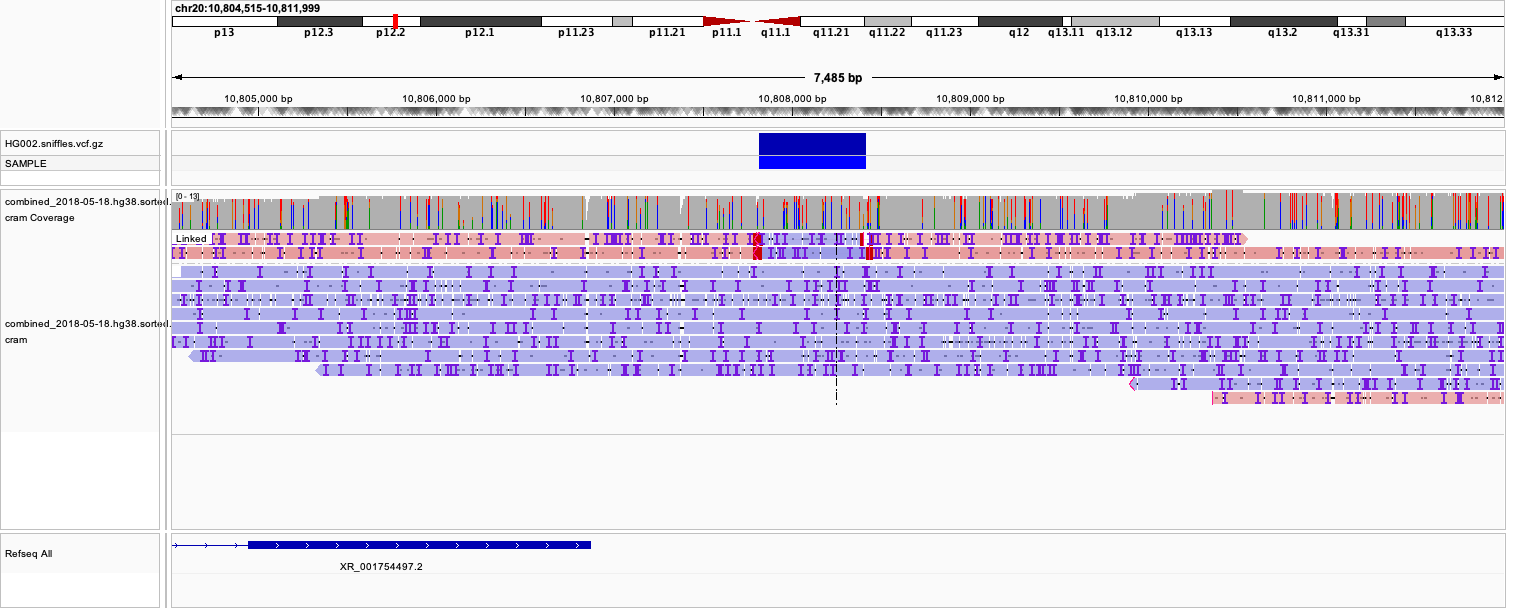
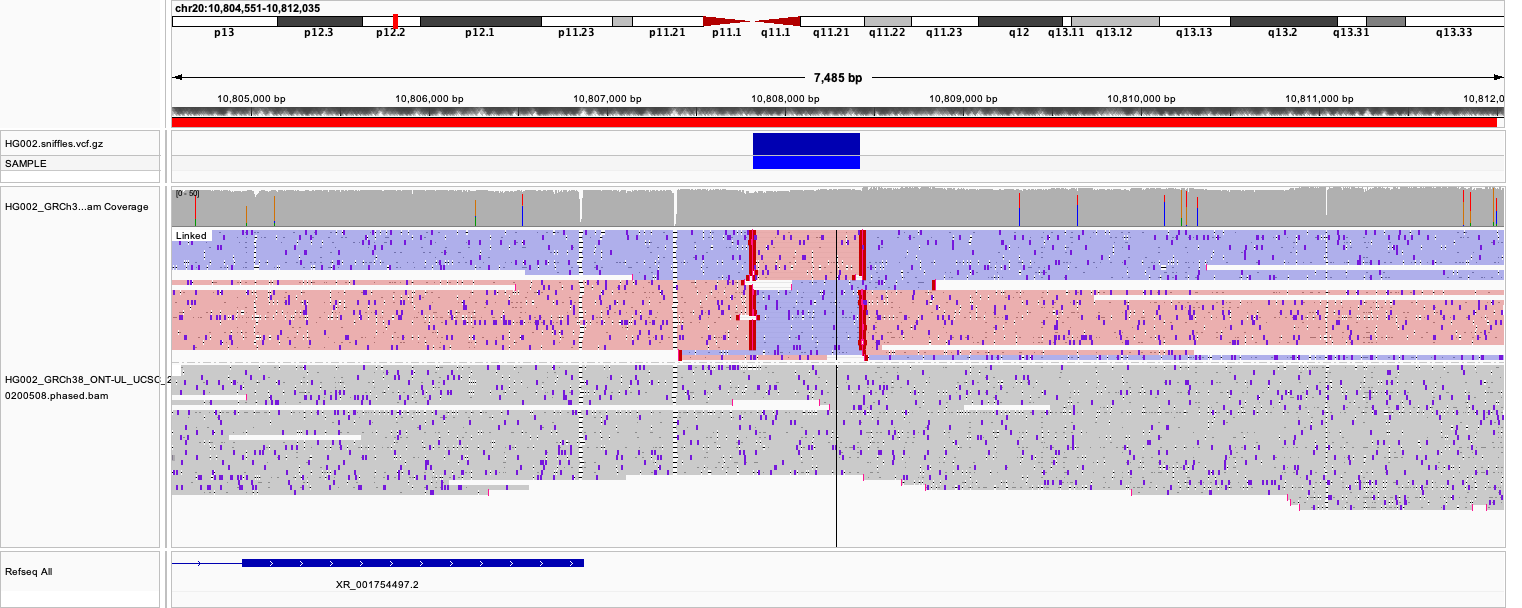
Extend hands-on section with real haplotype phasing step
Loads a second real dataset alongside the existing inversion-finding
CRAM: HG002_GRCh38_ONT-UL_UCSC_20200508.phased.bam (UCSC ultra-long
ONT PromethION, GIAB), whose reads already carry an HP haplotype tag.

After finding the inversion breakpoints on the first track, learners
now color/group the phased track by the HP tag on the same locus and
reason about whether the inversion is heterozygous (one haplotype)
or homozygous (both) -- turning the standalone "Haplotype phasing"
background subsection into a hands-on follow-up on the same real
data, rather than a disconnected second example.

Also swaps in an updated, clearer version of the inversion screenshot
and notes the second file's much larger index (52 MB) in
instructor-notes.md as a load-time consideration.

Claude-Session: https://claude.ai/code/session_0122rCMcYUZRCa9nfNE1aPu1

diff --git a/episodes/09-viewing-long-read-sequencing.md b/episodes/09-viewing-long-read-sequencing.md
@@ -13,9 +13,10 @@ exercises: 15
 - Interpret mapping quality (MAPQ) when assessing a long-read alignment.
 - Recognize split reads as evidence for structural variants in long-read
   data.
-- Load a remote CRAM file directly from a public archive and use linked
+- Load remote BAM/CRAM files directly from a public archive and use linked
   supplementary alignments and strand coloring to confirm an inversion.
-- Use haplotype-tag coloring to visualize phased variants.
+- Use haplotype-tag coloring to visualize phased variants, including
+  assessing whether a structural variant is heterozygous or homozygous.
 
 ::::::::::::::::::::::::::::::::::::::::::::::::::
 
@@ -175,21 +176,37 @@ NCBI.
   but IGV only ever requests the small portion of it covering the region
   you are viewing.)
 
-3. Type `chr20:10,804,515-10,811,999` into the search box and click **Go**.
+3. Repeat **File > Load from URL…** for a second, independently-phased
+  ultra-long nanopore dataset for the same sample, which you will use later
+  in this section:
+
+  ```output
+  https://ftp-trace.ncbi.nlm.nih.gov/giab/ftp/data/AshkenazimTrio/HG002_NA24385_son/UCSC_Ultralong_OxfordNanopore_Promethion/HG002_GRCh38_ONT-UL_UCSC_20200508.phased.bam
+  ```
+
+  This file is much larger (its index alone is 52 MB), so this load step may
+  take a little longer — but as before, IGV still only streams the region
+  you actually view.
+
+4. Type `chr20:10,804,515-10,811,999` into the search box and click **Go**.
 
 At this zoom level you will see the same dense, indel-heavy raw signal
 described earlier in this episode — feel free to apply quick consensus mode
-here too. To reveal the structural signal underneath it:
+here too. For now, focus only on the `combined_2018-05-18` track (leave the
+second, `...phased.bam` track alone; you will come back to it). To reveal
+the structural signal underneath the noise:
 
-4. Right-click the alignments and select **Link supplementary alignments**.
-  Long reads spanning a structural variant breakpoint are often aligned as
-  a primary alignment plus one or more separate *supplementary* alignments;
-  this option draws all the pieces of one read on a single row, connected
-  by a thin line — the direct long-read equivalent of the paired-end
-  linking you used with **View as pairs** in the previous episode.
-5. Right-click again and select **Color alignments by > Read strand**.
+5. Right-click the `combined_2018-05-18` alignments and select **Link
+  supplementary alignments**. Long reads spanning a structural variant
+  breakpoint are often aligned as a primary alignment plus one or more
+  separate *supplementary* alignments; this option draws all the pieces of
+  one read on a single row, connected by a thin line — the direct long-read
+  equivalent of the paired-end linking you used with **View as pairs** in
+  the previous episode.
+6. Right-click the same track again and select **Color alignments by >
+  Read strand**.
 
-![Ultra-long nanopore reads at chr20:10,804,515-10,811,999 (HG002), linked and colored by read strand: a block of reads switches from pink (forward) to purple (reverse) and back, right where the linked lines connect split read segments.](fig/longread-09-hg002-inversion-hands-on.png){alt='IGV view of HG002 ultra-long nanopore reads at a chr20 locus, linked supplementary alignments and colored by read strand, showing a block of reverse-strand-colored reads flanked by forward-strand reads'}
+![Ultra-long nanopore reads at chr20:10,804,515-10,811,999 (HG002): the top track (`combined_2018-05-18`), linked and colored by read strand, shows a block of reads switching from pink (forward) to purple (reverse) and back. The second track below it (the phased BAM) is still in its default, unstyled appearance at this point — you will style it in the next step.](fig/longread-09-hg002-inversion-hands-on.png){alt='IGV view of HG002 ultra-long nanopore reads at a chr20 locus: the top track linked and colored by read strand showing a block of reverse-strand reads flanked by forward-strand reads, and a second, unstyled grey track below it'}
 
 Most reads across this region are colored pink (forward strand). A block of
 reads in the middle of the view, however, switches to purple (reverse
@@ -222,13 +239,53 @@ colored by strand.
 
 ::::::::::::::::::::::::::::::::::::::::::::::::::
 
-### Haplotype phasing
+### Is the inversion on one haplotype, or both?
 
-Long reads are also long enough to span multiple nearby variants on the
-*same* physical DNA molecule, which lets phasing tools (such as WhatsHap or
-LongPhase) tag each read with which parental haplotype it belongs to (the
-`HP` BAM tag). Coloring and sorting reads by `HP` groups them into their two
-haplotypes, making it easy to compare alleles side by side. In this example
+Now turn to the second track you loaded,
+`HG002_GRCh38_ONT-UL_UCSC_20200508.phased.bam`. As the name suggests, its
+reads have already been assigned to a haplotype by a phasing tool, tagged
+with the `HP` BAM attribute — exactly the kind of tag described next.
+
+7. Right-click that track and select **Color alignments by > Tag**, then
+  enter `HP` as the tag name. Optionally also **Group alignments by > Tag**
+  with the same tag, to separate the two haplotypes into clearly divided
+  blocks rather than an interleaved mix of colors.
+
+:::::::::::::::::::::::::::::::::::::::  challenge
+
+## Heterozygous or homozygous?
+
+Compare the two haplotype groups at the same breakpoints you identified
+above. Are reads showing evidence of the inversion confined to one
+haplotype, or do both haplotypes show it? What would each answer imply
+biologically?
+
+:::::::::::::::  solution
+
+## Solution
+
+If the discordant, split/strand-switching read pattern only appears in one
+haplotype group while the other haplotype's reads look normal all the way
+through, that is evidence the inversion is **heterozygous** — present on
+only one of the two parental chromosomes. If both haplotype groups show the
+same discordant pattern, that would instead suggest a **homozygous**
+inversion, present on both chromosomes. This is exactly the kind of
+question phasing lets you answer that an unphased view cannot: an unphased
+track only tells you *that* some reads are discordant at this locus, not
+*which chromosome copy* they came from.
+
+:::::::::::::::::::::::::
+
+::::::::::::::::::::::::::::::::::::::::::::::::::
+
+### Haplotype phasing, more generally
+
+The `HP` tag you just used works because long reads are long enough to span
+multiple nearby variants on the *same* physical DNA molecule, which lets
+phasing tools (such as WhatsHap or LongPhase) tag each read with which
+parental haplotype it belongs to. Coloring and sorting reads by `HP` groups
+them into their two haplotypes, making it easy to compare alleles side by
+side — useful well beyond structural variant zygosity. In this example
 — a short tandem repeat expansion in the *FMR1* gene — one haplotype carries
 a much larger insertion than the other; grey reads could not be confidently
 assigned to either haplotype:
@@ -282,6 +339,8 @@ like Fragile X syndrome (associated with *FMR1* repeat expansions).
 - A single long read can directly reveal a structural variant by splitting
   across its breakpoint, without needing paired-end evidence.
 - Coloring and grouping reads by haplotype (`HP`) tag separates two alleles
-  for direct comparison, useful for phased variants and repeat expansions.
+  for direct comparison, useful for phased variants and repeat expansions —
+  and for telling a heterozygous structural variant (one haplotype) apart
+  from a homozygous one (both haplotypes).
 
 ::::::::::::::::::::::::::::::::::::::::::::::::::

diff --git a/instructors/instructor-notes.md b/instructors/instructor-notes.md
@@ -14,10 +14,12 @@ Episodes 1–2 need an internet connection (they load example data from the
 IGV server). Episodes 3–5, 7, and 8 use only local files. Episode 6 needs an
 internet connection again for the hosted RNA-seq tutorial data. Episode 9 is
 mostly discussion/demonstration based, walking through published
-screenshots, but its hands-on section streams a public CRAM file from NCBI
-over the internet — check this works from the workshop network in advance,
-since some institutional networks block or throttle large range requests to
-external FTP/HTTPS servers.
+screenshots, but its hands-on section streams two public files from NCBI
+over the internet (a ~13 GB CRAM and a ~175 GB BAM, the latter with a
+52 MB index) — check this works from the workshop network in advance, since
+some institutional networks block or throttle large range requests to
+external FTP/HTTPS servers, and the larger index in particular may take a
+noticeably longer time to load.
 
 ## Pacing advice
 

diff --git a/learners/reference.md b/learners/reference.md
@@ -94,8 +94,10 @@ title: 'Reference'
   it first; right-click **Link supplementary alignments** plus **Color
   alignments by > Read strand** (pink = forward, purple = reverse) reveals
   an inversion within single linked reads.
-- Color/group reads by `HP` (haplotype) tag to separate two phased alleles
-  for comparison.
+- Color/group reads by `HP` (haplotype) tag (**Color/Group alignments by >
+  Tag**, tag name `HP`) to separate two phased alleles for comparison, or to
+  tell a heterozygous structural variant (one haplotype) from a homozygous
+  one (both).
 
 ## Glossary
 
